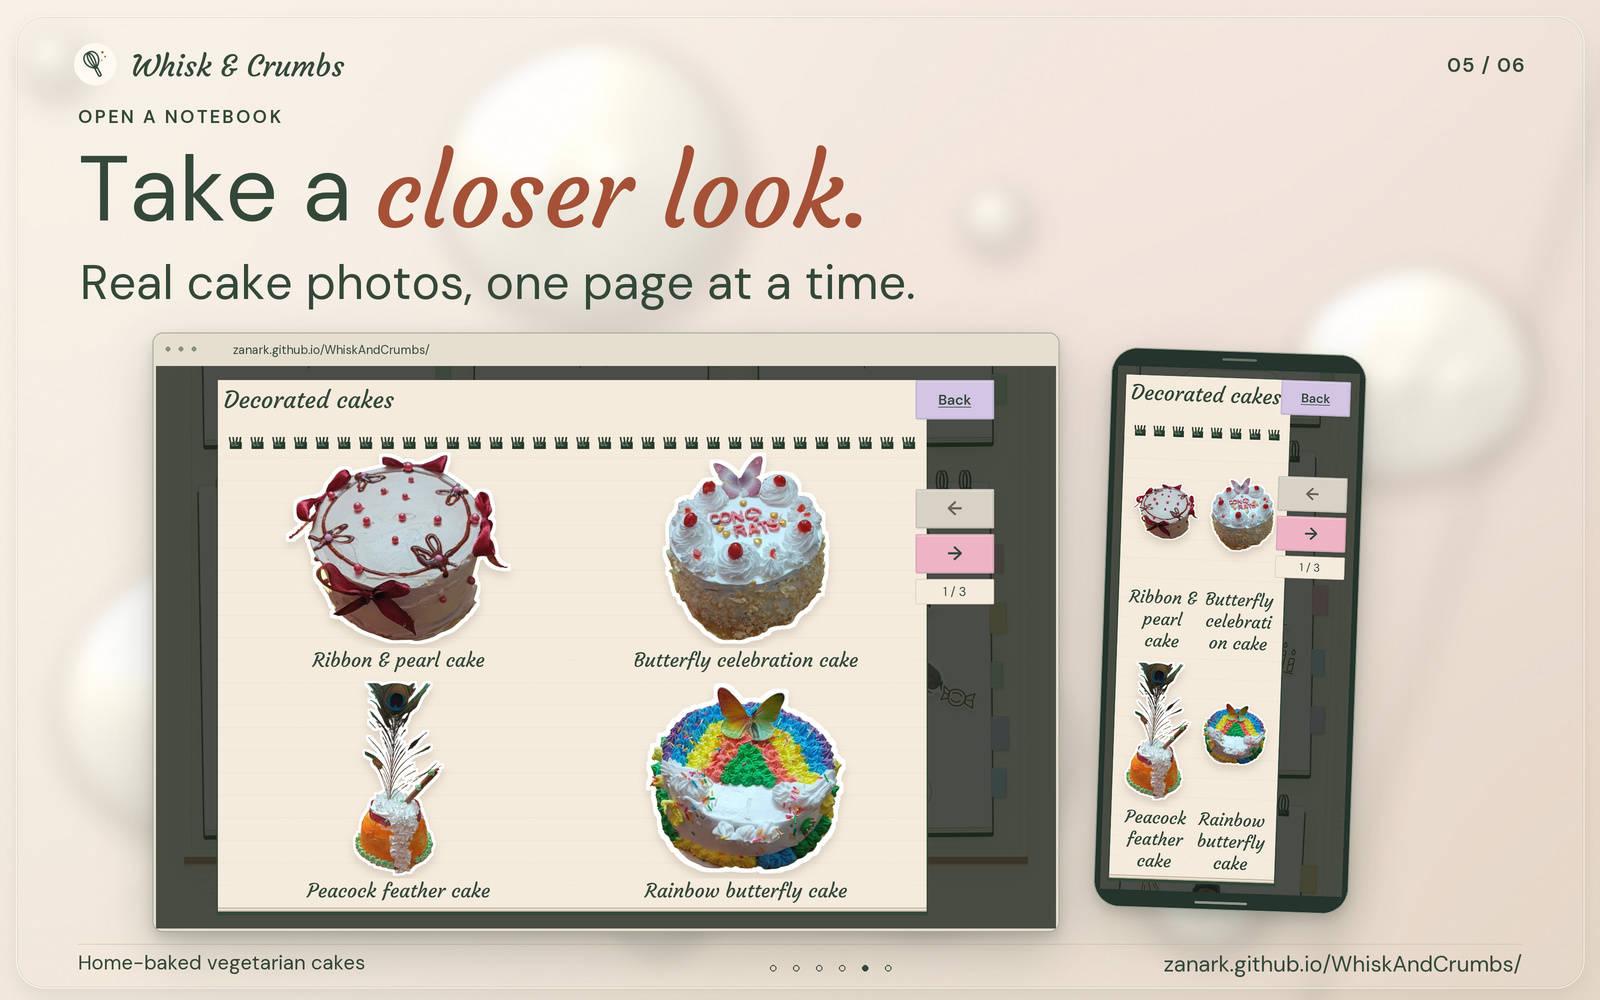
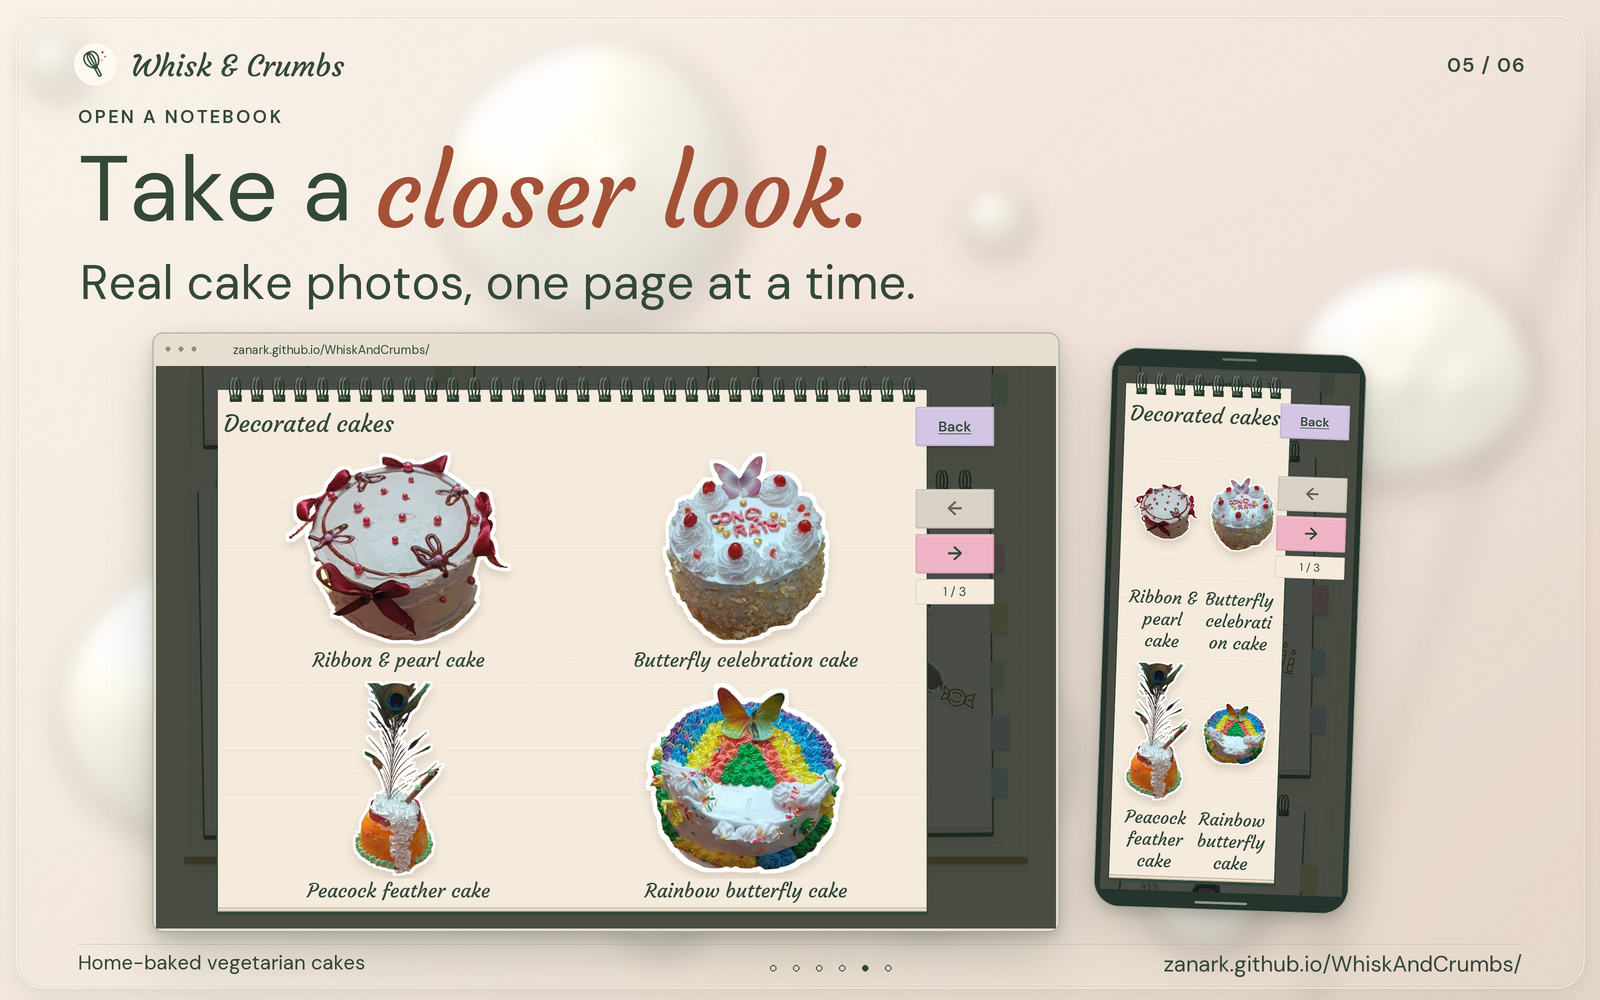
Refresh launch images with the unobscured notebook spiral
Copilot-Session: 065222f9-e445-4b98-a549-e6948580c174

Changed region(s): [[0.125, 0.372, 0.625, 0.465], [0.6875, 0.372, 0.8438, 0.465]]

diff --git a/README.md b/README.md
@@ -1,11 +1,11 @@
 [![Our little corner is now online: genuine bakery views with a lit projecting roof, shaded front valance and short rounded ends, on lightly frosted glass above unique cream clusters and droplets.](site/assets/showcase/01-welcome.jpg?v=484b7a251100)](https://zanark.github.io/WhiskAndCrumbs/)
 
-[![Come on in: genuine bakery entrance views with glowing whisk and heart neon emblems on the glass doors and a softly shaded striped awning, on lightly frosted glass above irregular cream clusters.](site/assets/showcase/02-bakery-entrance.jpg?v=e5f2ebaafe7c)](https://zanark.github.io/WhiskAndCrumbs/)
+[![Come on in: genuine bakery entrance views with glowing whisk and heart neon emblems on the glass doors and a softly shaded striped awning, on lightly frosted glass above irregular cream clusters.](site/assets/showcase/02-bakery-entrance.jpg?v=68e64d5e7cb1)](https://zanark.github.io/WhiskAndCrumbs/)
 
 [![A little care in every layer: genuine story and recipe-note views with sharp green lettering on lightly frosted glass, above distinct irregular cream clusters and small droplets.](site/assets/showcase/03-our-story.jpg?v=5176f1b64584)](https://zanark.github.io/WhiskAndCrumbs/#story)
 
 [![Find your kind of cake: genuine pink-notebook views and readable headings on a single lightly frosted panel, with a unique clustered cream arrangement visible behind the glass.](site/assets/showcase/04-cake-notebooks.jpg?v=92ba4094cd39)](https://zanark.github.io/WhiskAndCrumbs/#cakes)
 
-[![Take a closer look: genuine four-photo catalogues with clickable cake images, centered names, Back to categories and both page-arrow tags attached on the right, on lightly frosted glass above irregular cream clusters.](site/assets/showcase/05-open-notebook.jpg?v=20fe79f84ee2)](https://zanark.github.io/WhiskAndCrumbs/#cakes)
+[![Take a closer look: genuine four-photo catalogues with clickable cake images, centered names, Back to categories and both page-arrow tags attached on the right, on lightly frosted glass above irregular cream clusters.](site/assets/showcase/05-open-notebook.jpg?v=7ce91770f0eb)](https://zanark.github.io/WhiskAndCrumbs/#cakes)
 
 [![Your next cake starts with hello: genuine desktop and mobile ordering views and sharp green copy on lightly frosted glass, with a separately oriented cream-cluster and droplet background.](site/assets/showcase/06-simple-ordering.jpg?v=efbcf27f804a)](https://zanark.github.io/WhiskAndCrumbs/#order)
